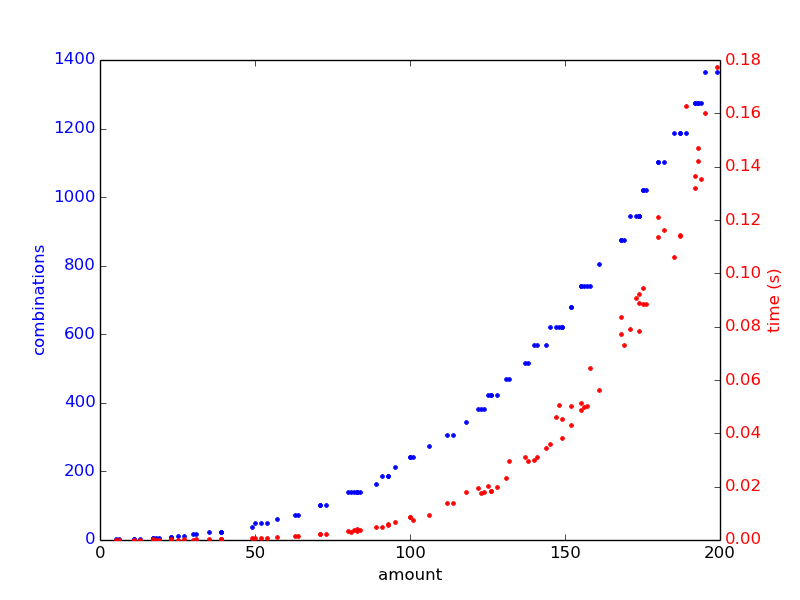
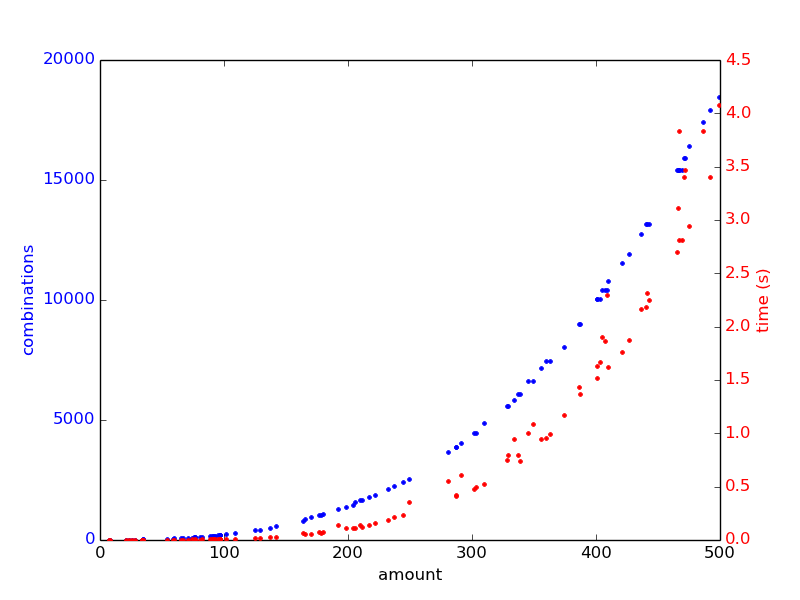
Extended profiling code and updated scatter plot png.

diff --git a/profilechangemaker.py b/profilechangemaker.py
@@ -10,6 +10,7 @@ Date: August 12, 2014
 import random
 import time
 from changemaker import ChangeMaker
+import matplotlib.pyplot as plt
 
 def benchmark_count_change(denoms, max_N, num_samples):
     '''
@@ -35,7 +36,14 @@ def benchmark_count_change(denoms, max_N, num_samples):
     return (amounts, counts, times)
 
 def plot(amounts, counts, times):
-    import matplotlib.pyplot as plt
+    '''
+    Creates a scatter plot showing:
+    - amount vs. # combinations
+    - amount vs. running time
+
+    params amounts, counts, and times
+    should all be of the same length
+    '''  
     fig, ax1 = plt.subplots()
     ax1.plot(amounts, counts, 'b.')
     ax1.set_xlabel('amount')
@@ -59,7 +67,7 @@ if __name__ == '__main__':
     uniformly sampled from [1, 200]
     '''
     us_denoms = [25, 10, 5, 1]
-    (amounts, counts, times) = benchmark_count_change(us_denoms, 200, 100)
+    (amounts, counts, times) = benchmark_count_change(us_denoms, 500, 100)
     plot(amounts, counts, times)     
         
         
